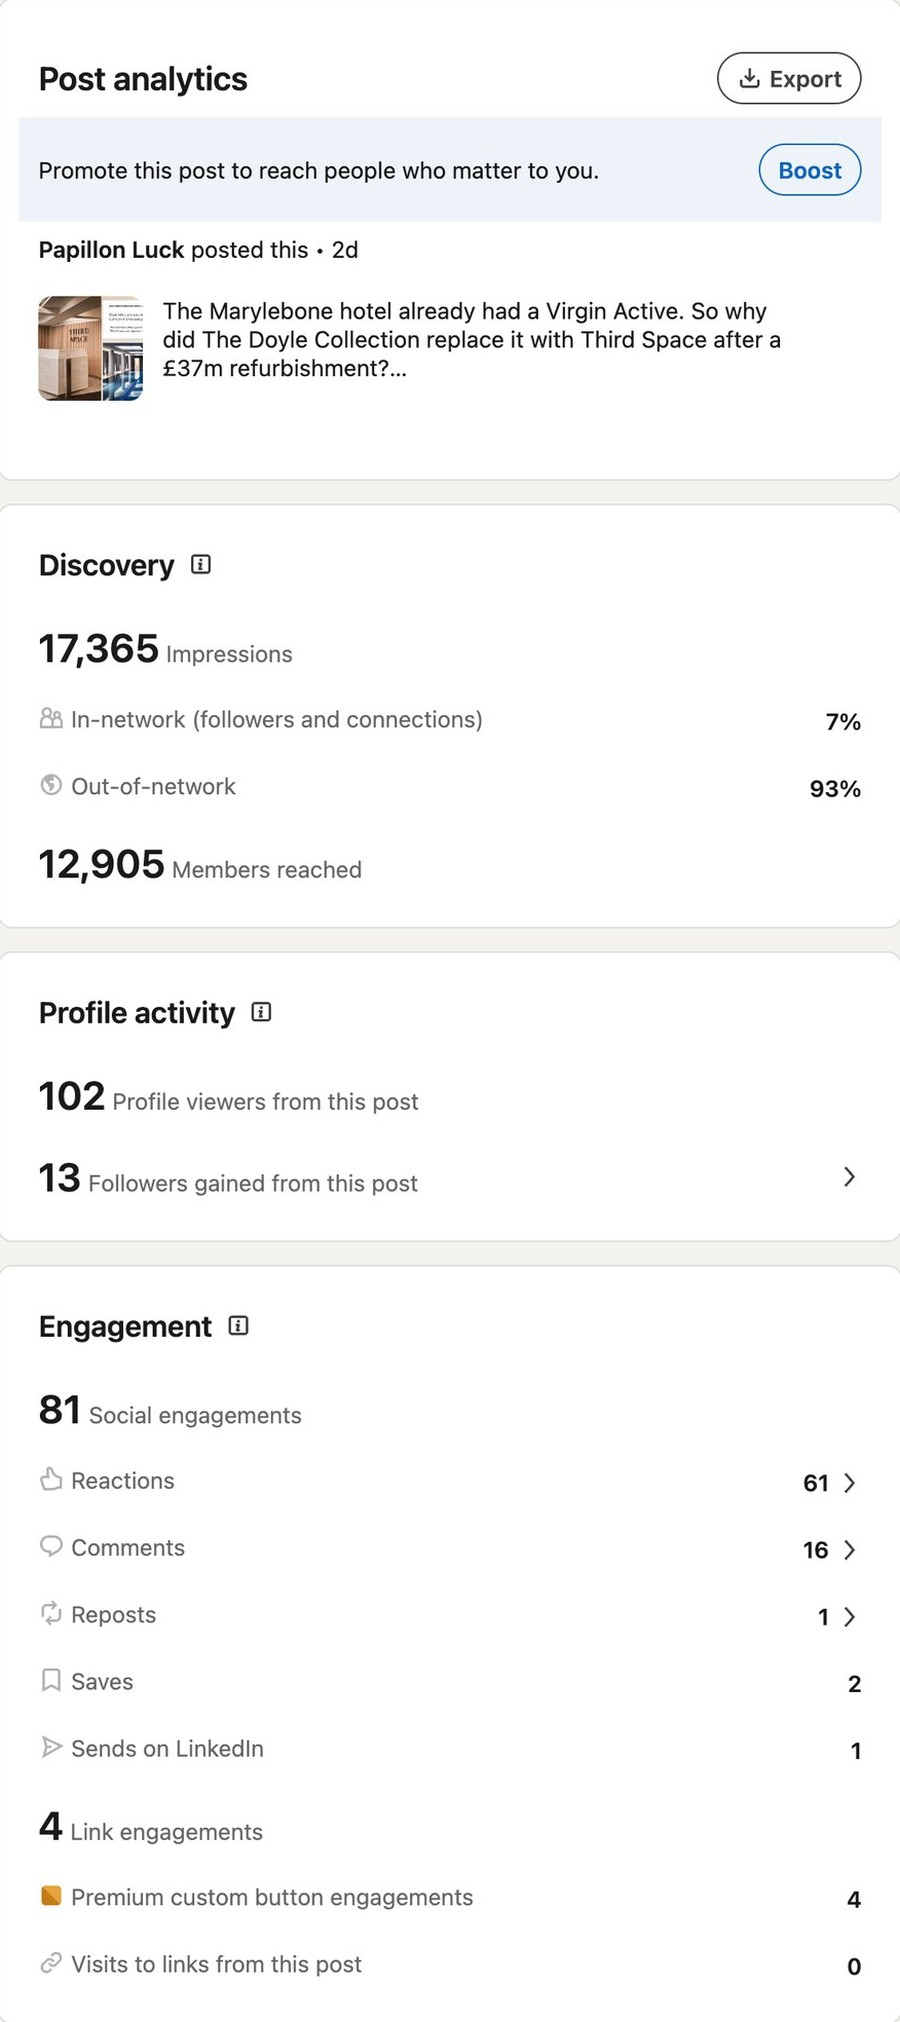
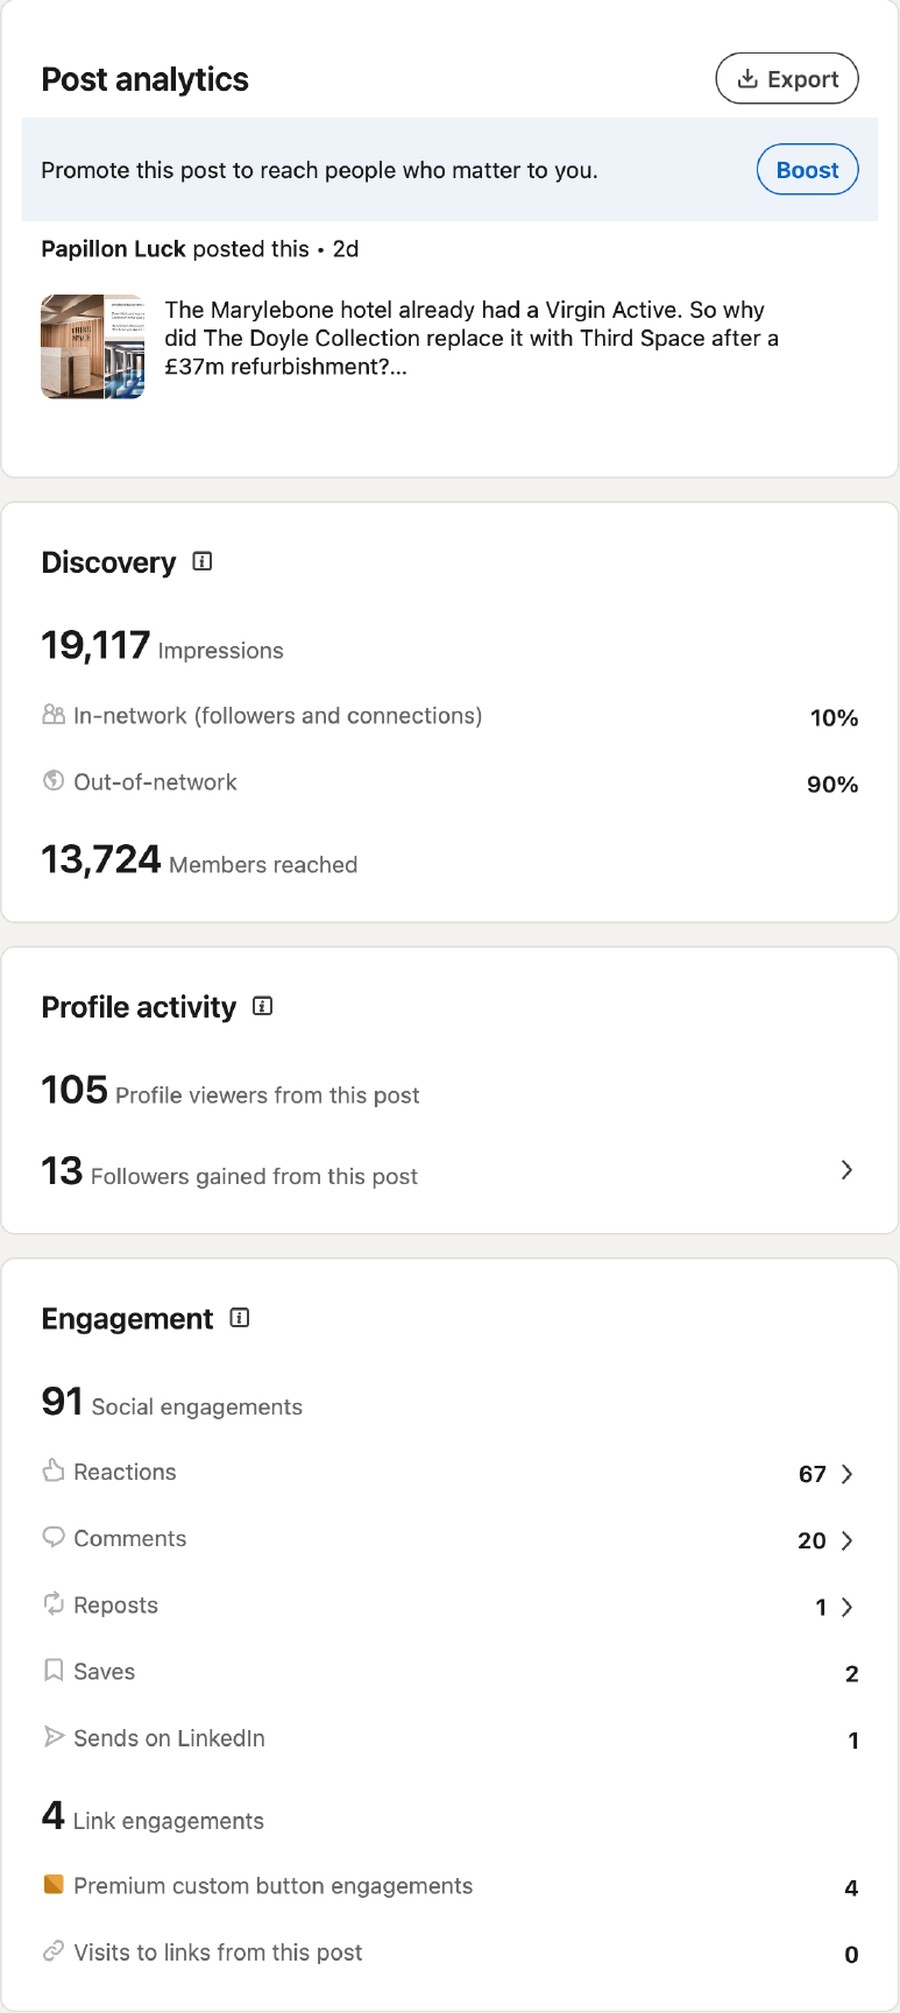
Add files via upload

diff --git a/index.html b/index.html
@@ -1650,9 +1650,9 @@ html body .pt-pod .pc img:not(#z1):not(#z2):not(#z3):not(#z4):not(#z5):not(#z6):
       <h4 class="lipx-h">What the right story can do.</h4><p class="lipx-p">The stories that do this best are the ones only you can tell. One of mine is the private jet that nearly landed in Selfridges: in 2019 I pitched putting a private jet in its Oxford Street window for the launch of JetFuel. That post has been seen nearly 5,000 times and led to wellness airport lounge concepts and activations.</p>       <p class="lipx-p">Every leader has stories like this: the opening that nearly didn&rsquo;t happen, the guest request that changed how the team works, the idea that was too early. I find them in our weekly conversations and write them in your voice, because they are the stories the world wants to hear.</p>
       </div>
       <div class="pcar" id="my-writing" aria-label="Examples of my LinkedIn posts"><div class="pc-top"><span class="pc-h">Examples of my writing</span><span class="pc-nav"><button type="button" class="pc-prev" aria-label="Previous post">&larr;</button><span class="pc-n">1 / 6</span><button type="button" class="pc-next" aria-label="Next post">&rarr;</button></span></div><div class="pc-track"><div class="pc-card" data-src="img/posts/full-third-space.jpg"><div class="pc-k">Third Space Marylebone</div><div class="pc-shot"><img src="img/posts/prev-third-space.jpg" alt="Papillon Luck on LinkedIn: Why The Doyle Collection replaced Virgin Active with Third Space at The Marylebone"></div><button type="button" class="pc-open">Read the full post</button><button type="button" class="pm-bar">Read the full post &rarr;</button></div><div class="pc-card" data-src="img/posts/full-selfridges.jpg"><div class="pc-k">Selfridges</div><div class="pc-shot"><img src="img/posts/prev-selfridges.jpg" alt="Papillon Luck on LinkedIn: The private jet I tried to put in the Selfridges window"></div><button type="button" class="pc-open">Read the full post</button><button type="button" class="pm-bar">Read the full post &rarr;</button></div><div class="pc-card" data-src="img/posts/full-rosewood.jpg"><div class="pc-k">Rosewood London</div><div class="pc-shot"><img src="img/posts/prev-rosewood.jpg" alt="Papillon Luck on LinkedIn: Two hotel owners, the same wellness investment, opposite decisions"></div><button type="button" class="pc-open">Read the full post</button><button type="button" class="pm-bar">Read the full post &rarr;</button></div><div class="pc-card" data-src="img/posts/full-hyperbaric.jpg"><div class="pc-k">The hyperbaric chamber</div><div class="pc-shot"><img src="img/posts/prev-hyperbaric.jpg" alt="Papillon Luck on LinkedIn: Why a hyperbaric chamber doesn&rsquo;t make a longevity hotel"></div><button type="button" class="pc-open">Read the full post</button><button type="button" class="pm-bar">Read the full post &rarr;</button></div><div class="pc-card" data-src="img/posts/full-cafe-royal.jpg"><div class="pc-k">Hotel Caf&eacute; Royal</div><div class="pc-shot"><img src="img/posts/prev-cafe-royal.jpg" alt="Papillon Luck on LinkedIn: The staff at a five-star London hotel once said my signed photo should hang next to Winston Churchill&rsquo;s"></div><button type="button" class="pc-open">Read the full post</button><button type="button" class="pm-bar">Read the full post &rarr;</button></div><div class="pc-card" data-src="img/posts/full-topgear.jpg"><div class="pc-k">Top Gear</div><div class="pc-shot"><img src="img/posts/prev-topgear.jpg" alt="Papillon Luck on LinkedIn: The party in 2008 where I knew nobody"></div><button type="button" class="pc-open">Read the full post</button><button type="button" class="pm-bar">Read the full post &rarr;</button></div></div></div>
-    </div><div class="pxb"><div class="pxb-l"><h4 class="lipx-h pxb-h">And you don&rsquo;t need a large following.</h4><p class="lipx-p">LinkedIn now shows posts beyond your followers, based on what each one says and how readers respond. One post I wrote for a client with just 600 followers was seen more than 13,000 times, far beyond their own network, and it works the same way on my own account of over 6,700.</p>       <p class="lipx-p">Every client&rsquo;s work is confidential, so the proof is on my own profile. I&nbsp;always test everything on myself first, because the platform never stops changing.</p><p class="lipx-p lipx-pull">Keeping up with LinkedIn&rsquo;s ever-evolving algorithm is my job, never yours.</p>
+    </div><div class="pxb"><div class="pxb-l"><h4 class="lipx-h pxb-h">And you don&rsquo;t need a large following.</h4><p class="lipx-p">LinkedIn now shows posts beyond your followers, based on what each one says and how readers respond. One post I wrote for a client with just <strong style="font-weight:600;color:#ffffff">600 followers</strong> was seen <strong style="font-weight:600;color:#ffffff">more than 13,000 times</strong>, more than 20 times their following. It works the same way on my own account of over 6,700, where my post on The Marylebone was seen <strong style="font-weight:600;color:#ffffff">more than 19,000 times in two days</strong>, nearly three times my following.</p>       <p class="lipx-p">Every client&rsquo;s work is confidential, so the proof is on my own profile. I&nbsp;always test everything on myself first, because the platform never stops changing.</p><p class="lipx-p lipx-pull">Keeping up with LinkedIn&rsquo;s ever-evolving algorithm is my job, never yours.</p>
         
-      <div class="lip-links lip-links2"><a class="lip-a" href="https://www.linkedin.com/in/papillonluck/" target="_blank" rel="noopener">Read my LinkedIn &rarr;</a></div><div class="pxb-st"><div class="pstat-h">My post on The Marylebone<span class="ph-dot"> &middot; </span><span class="ph-br">first 2&nbsp;days</span></div><div class="pstat-g"><div class="pstat-c"><div class="pstat-n">17,365</div><div class="pstat-t">impressions</div></div><div class="pstat-c"><div class="pstat-n">93%</div><div class="pstat-t">outside my network</div></div><div class="pstat-c"><div class="pstat-n">102</div><div class="pstat-t">profile visits</div></div><div class="pstat-c"><div class="pstat-n">3</div><div class="pstat-t">enquiries in 24&nbsp;hours</div></div></div></div></div><div class="pxb-r"><figure class="pstat-f"><img src="img/posts/analytics-marylebone-full.jpg" alt="LinkedIn post analytics for Papillon Luck&rsquo;s post on The Marylebone: 17,365 impressions, 93% out of network, 12,905 members reached, 102 profile viewers, 61 reactions, 16 comments, 2 saves"></figure><div class="pstat-s">My LinkedIn post analytics, 2&nbsp;days after posting on 23&nbsp;November&nbsp;2026. The 3 enquiries came from this post by private message and stay confidential, so they aren&rsquo;t shown here.</div></div></div>
+      <div class="lip-links lip-links2"><a class="lip-a" href="https://www.linkedin.com/in/papillonluck/" target="_blank" rel="noopener">Read my LinkedIn &rarr;</a></div><div class="pxb-st"><div class="pstat-h">My post on The Marylebone<span class="ph-dot"> &middot; </span><span class="ph-br">first 2&nbsp;days</span></div><div class="pstat-g"><div class="pstat-c"><div class="pstat-n">19,117</div><div class="pstat-t">impressions</div></div><div class="pstat-c"><div class="pstat-n">90%</div><div class="pstat-t">outside my network</div></div><div class="pstat-c"><div class="pstat-n">105</div><div class="pstat-t">profile visits</div></div><div class="pstat-c"><div class="pstat-n">3</div><div class="pstat-t">enquiries in 24&nbsp;hours</div></div></div></div></div><div class="pxb-r"><figure class="pstat-f"><img src="img/posts/analytics-marylebone-full.jpg" alt="LinkedIn post analytics for Papillon Luck&rsquo;s post on The Marylebone: 19,117 impressions, 90% out of network, 13,724 members reached, 105 profile viewers, 67 reactions, 20 comments, 2 saves"></figure><div class="pstat-s">My LinkedIn post analytics, 2&nbsp;days after posting on 23&nbsp;November&nbsp;2026. The 3 enquiries came from this post by private message and stay confidential, so they aren&rsquo;t shown here.</div></div></div>
   </div>
 </section>
 
